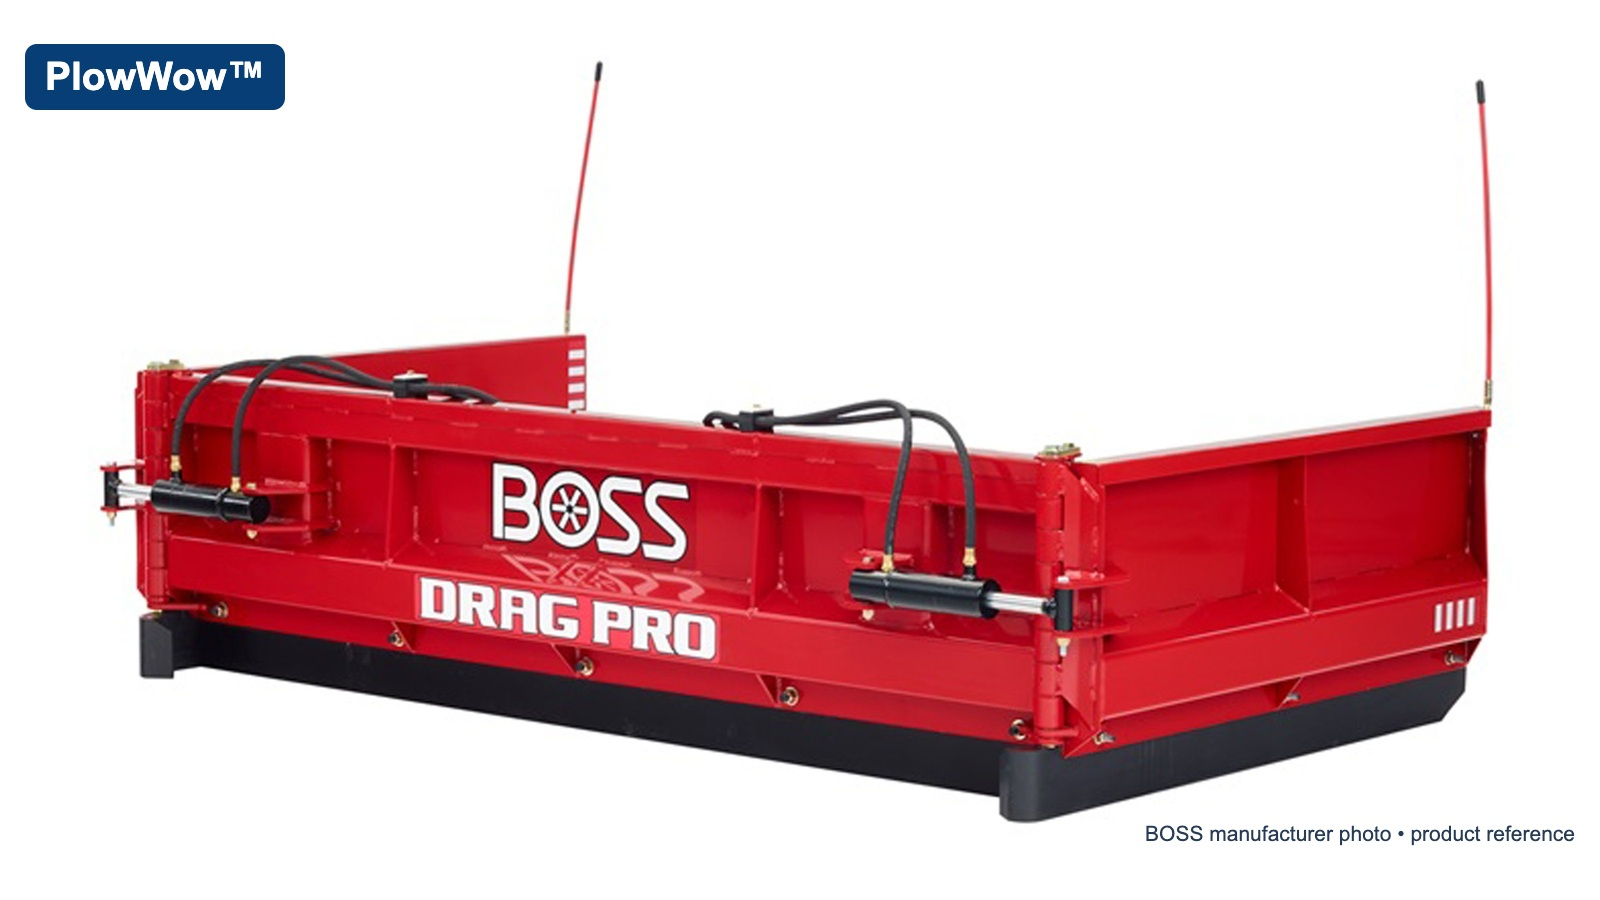
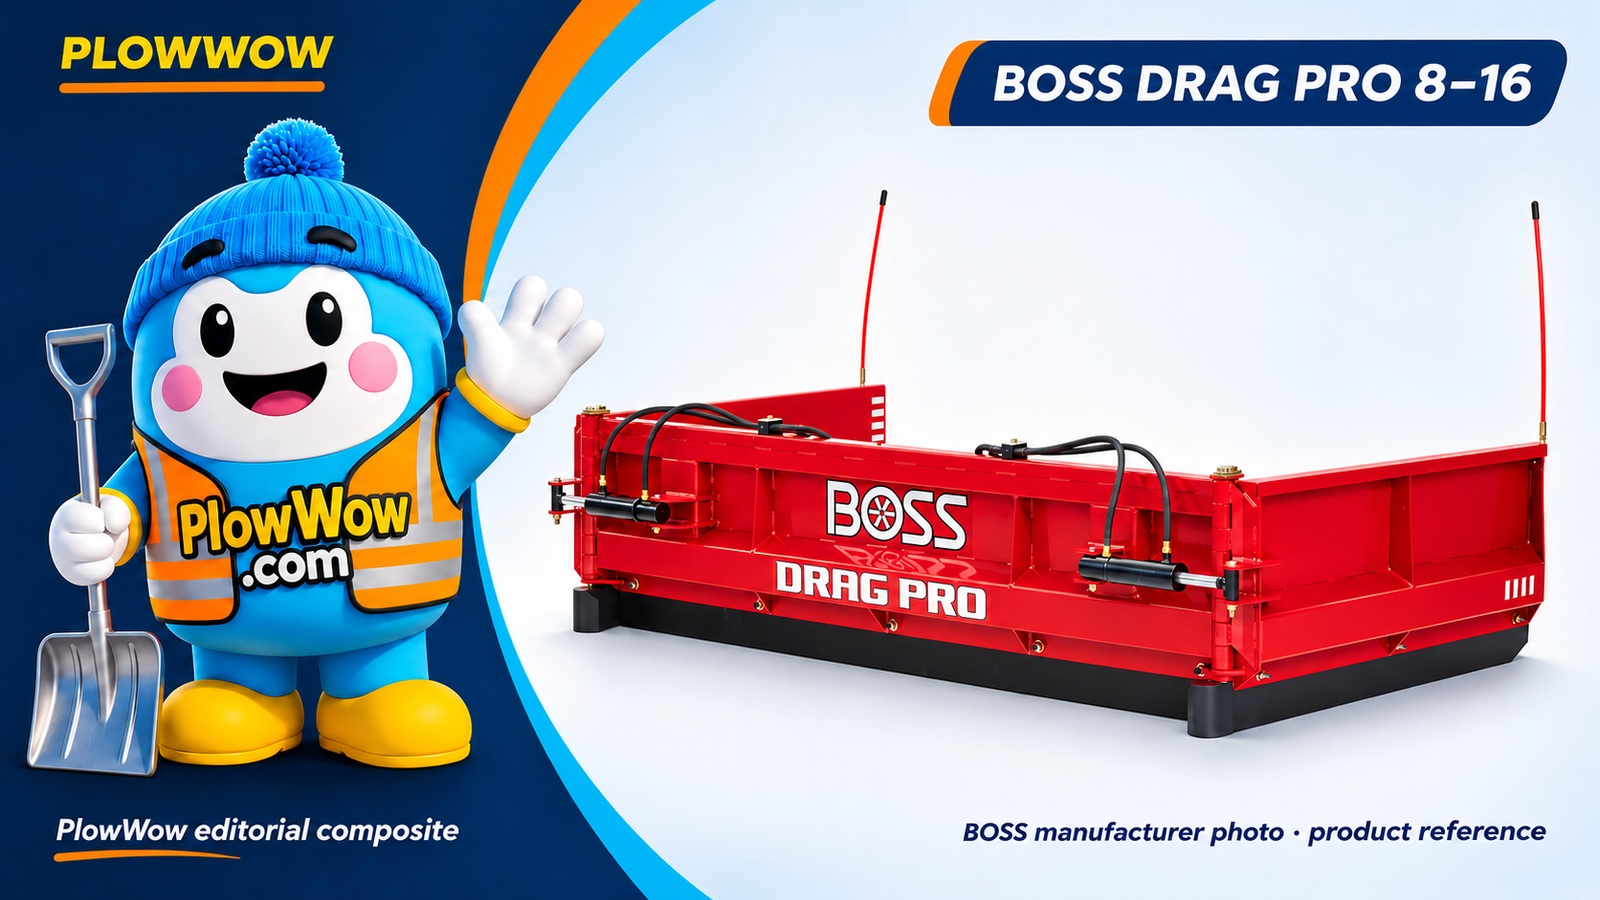
Correct fleet hero with canonical Wow and yellow PlowWow branding
Apply the owner-selected Wow-plus-BOSS composition, label it as an AI-assisted editorial composite with manufacturer product attribution, and enforce the explicit image standard and reviewed-image hash. Preserve article prose, publication dates and existing policy/quote functionality.

diff --git a/src/pages/LegacyPage.tsx b/src/pages/LegacyPage.tsx
@@ -432,7 +432,7 @@ const LegacyPage = ({ kind }: LegacyPageProps) => {
 
         {post && <figure className="container !max-w-3xl pt-6">
           <img src={post.image} alt={post.alt} width={imageMetadata[post.image as keyof typeof imageMetadata]?.width} height={imageMetadata[post.image as keyof typeof imageMetadata]?.height} fetchPriority="high" className="w-full rounded-xl" />
-          <figcaption className="mt-2 text-sm text-muted-foreground">{post.slug === "boss-drag-pro-fleet-large-parking-lots" ? "Manufacturer photograph: BOSS Snowplow / The Toro Company. DRAG PRO 8–16 (RPL21616) product reference; not our truck or a completed-installation photograph." : ["sapperton-new-westminster-medical-office-snow-removal", "downtown-port-coquitlam-wilson-medical-office-snow-removal"].includes(post.slug) ? "AI-assisted PlowWow brand illustration of an imagined medical-office setting; not a photograph of the named property." : post.slug === "snow-intelligence-property-qr-signs-kingsway-metro-vancouver" ? "Original PlowWow lawn-sign artwork for 5549 Kingsway. Sign design; installation is part of the upcoming rollout." : ["coquitlam-snow-removal-cost-estimate-2026-2027", "langley-property-snow-removal-cost-2026-2027", "port-coquitlam-poco-snow-removal-cost-2026-2027", "richmond-snow-removal-cost-estimate-2026-2027", "sapperton-new-westminster-medical-office-snow-removal", "downtown-port-coquitlam-wilson-medical-office-snow-removal"].includes(post.slug) ? `${post.alt}. AI-assisted PlowWow brand illustration of an imagined winter setting.` : ["polar-vortex-richmond-winter-loading-drainage-plan","polar-vortex-surrey-mixed-property-winter-readiness","polar-vortex-vancouver-winter-access-plan"].includes(post.slug) ? "Original AI-assisted PlowWow editorial illustration. Imagined winter setting; not a real customer property or completed-work photograph." : post.slug === "polar-vortex-burnaby-strata-winter-handoff" ? "Original AI-assisted PlowWow editorial illustration. Imagined winter property; not a real Burnaby site or completed-work photograph." : `${post.alt}. Source: PlowWow editorial library; not a verified project record.`}</figcaption>
+          <figcaption className="mt-2 text-sm text-muted-foreground">{post.slug === "boss-drag-pro-fleet-large-parking-lots" ? "AI-assisted PlowWow editorial composite with the canonical Wow mascot. BOSS DRAG PRO 8–16 (RPL21616) equipment reference: BOSS Snowplow / The Toro Company; not our truck or a completed-installation photograph." : ["sapperton-new-westminster-medical-office-snow-removal", "downtown-port-coquitlam-wilson-medical-office-snow-removal"].includes(post.slug) ? "AI-assisted PlowWow brand illustration of an imagined medical-office setting; not a photograph of the named property." : post.slug === "snow-intelligence-property-qr-signs-kingsway-metro-vancouver" ? "Original PlowWow lawn-sign artwork for 5549 Kingsway. Sign design; installation is part of the upcoming rollout." : ["coquitlam-snow-removal-cost-estimate-2026-2027", "langley-property-snow-removal-cost-2026-2027", "port-coquitlam-poco-snow-removal-cost-2026-2027", "richmond-snow-removal-cost-estimate-2026-2027", "sapperton-new-westminster-medical-office-snow-removal", "downtown-port-coquitlam-wilson-medical-office-snow-removal"].includes(post.slug) ? `${post.alt}. AI-assisted PlowWow brand illustration of an imagined winter setting.` : ["polar-vortex-richmond-winter-loading-drainage-plan","polar-vortex-surrey-mixed-property-winter-readiness","polar-vortex-vancouver-winter-access-plan"].includes(post.slug) ? "Original AI-assisted PlowWow editorial illustration. Imagined winter setting; not a real customer property or completed-work photograph." : post.slug === "polar-vortex-burnaby-strata-winter-handoff" ? "Original AI-assisted PlowWow editorial illustration. Imagined winter property; not a real Burnaby site or completed-work photograph." : `${post.alt}. Source: PlowWow editorial library; not a verified project record.`}</figcaption>
         </figure>}
 
         {kind === "blog" && slug === "abbotsford-snow-estimate-sharing-review" && <figure className="container !max-w-3xl py-6"><video controls playsInline preload="metadata" poster="/blog-images/wow-abbotsford-estimate-sharing-v2.jpg" className="w-full rounded-xl" aria-label="AI-generated PlowWow promotional animation"><source src="/media/plowwow-wow-winter-promo-original.mp4" type="video/mp4" /></video><figcaption className="mt-2 text-sm text-muted-foreground">AI-generated PlowWow promotional animation. Brand illustration; not real Abbotsford footage, a customer property or a demonstration of working app features.</figcaption></figure>}

diff --git a/docs/operations/PLOWWOW-FLEET-NEWS-SOT.md b/docs/operations/PLOWWOW-FLEET-NEWS-SOT.md
@@ -23,7 +23,7 @@ Use existing verified service area: Vancouver, Lower Mainland and Fraser Valley.
 
 ## Media and brand
 
-Exact-model original: https://cdn.thetorocompany.com/api/assetstorage/623_43c0d737-fc6d-49c7-affa-29d5f7c094c0/Original (2000×2000 decoded). Manufacturer image linked from the RPL21616 page. Keep BOSS credit and product-reference label; never present it as our installed truck. Mechanical crop of white margins to 2000×1125, reduced to 1600×900, with small PlowWow branding. No upscaling, fabricated installation, unrelated stock or Shutterstock. Review the decoded final, actual hero, homepage/blog card and social crop on desktop and phone. Credit identifies the source; no separate licence/rights evidence is claimed.
+Exact-model original: https://cdn.thetorocompany.com/api/assetstorage/623_43c0d737-fc6d-49c7-affa-29d5f7c094c0/Original (2000×2000 decoded). Manufacturer image linked from the RPL21616 page. Keep BOSS credit and product-reference label; never present it as our installed truck. Superseded: the first product-only crop with a small wordmark failed the owner’s PlowWow visual standard. Owner correction: every PlowWow post featured image must contain the canonical Wow character AND the relevant subject/equipment image. A wordmark alone does not satisfy this. The PlowWow wordmark is yellow, per the owner’s explicit image correction. Use the approved blue Wow in a blue beanie, orange reflective vest, yellow boots and shovel (src/assets/wow-mascot.png; also public/contractor/wow-outline-source.webp). Preserve the canonical identity; do not invent a replacement character. The corrected 1600×900 hero uses an explicitly labeled AI-assisted editorial composite of Wow and the exact-model manufacturer product reference. Keep one prominent Wow and the full equipment visible in article, homepage/blog cards and centered social crops. No upscaling, fabricated installation, unrelated stock or Shutterstock. Review the decoded final, actual hero, homepage/blog card and social crop on desktop and phone. Credit identifies the source; no separate licence/rights evidence is claimed.
 
 Preserve the approved single Wow skinny banner, its dimensions, labels, pause/play and reduced-motion handling. Do not add a second banner.
 

diff --git a/src/content/legacy/blog/boss-drag-pro-fleet-large-parking-lots.md b/src/content/legacy/blog/boss-drag-pro-fleet-large-parking-lots.md
@@ -12,9 +12,9 @@ Markdown Content:
 
 # Big parking lots, meet our new BOSS DRAG PRO 8–16
 
-![BOSS DRAG PRO 8–16 hydraulic folding wing rear plow, manufacturer product photograph; not a photograph of a PlowWow truck](/blog-images/boss-drag-pro-fleet-large-parking-lots.jpg "BOSS manufacturer photo — DRAG PRO 8–16")
+![Canonical PlowWow Wow mascot beside BOSS DRAG PRO 8–16 rear plow product imagery in an AI-assisted editorial composite; not an installed fleet photograph](/blog-images/boss-drag-pro-fleet-large-parking-lots.jpg "Wow and BOSS DRAG PRO 8–16 editorial composite")
 
-*Manufacturer product photograph: BOSS Snowplow / The Toro Company, from the [RPL21616 product page](https://www.bossplow.com/en/product/RPL21616). Shown as product reference; this is not a photograph of our truck or a completed installation.*
+*AI-assisted PlowWow editorial composite featuring the canonical Wow character and BOSS DRAG PRO 8–16 product imagery. Equipment reference: BOSS Snowplow / The Toro Company, from the [RPL21616 product page](https://www.bossplow.com/en/product/RPL21616). This is not a photograph of our truck or a completed installation.*
 
 **By the PlowWow team · November 11, 2026 · Fleet news**
 
